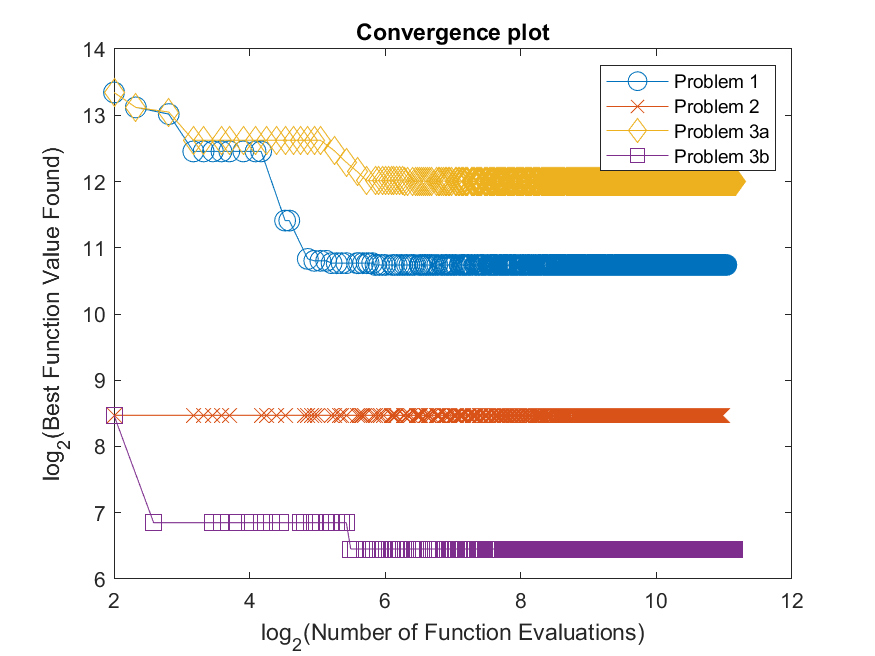
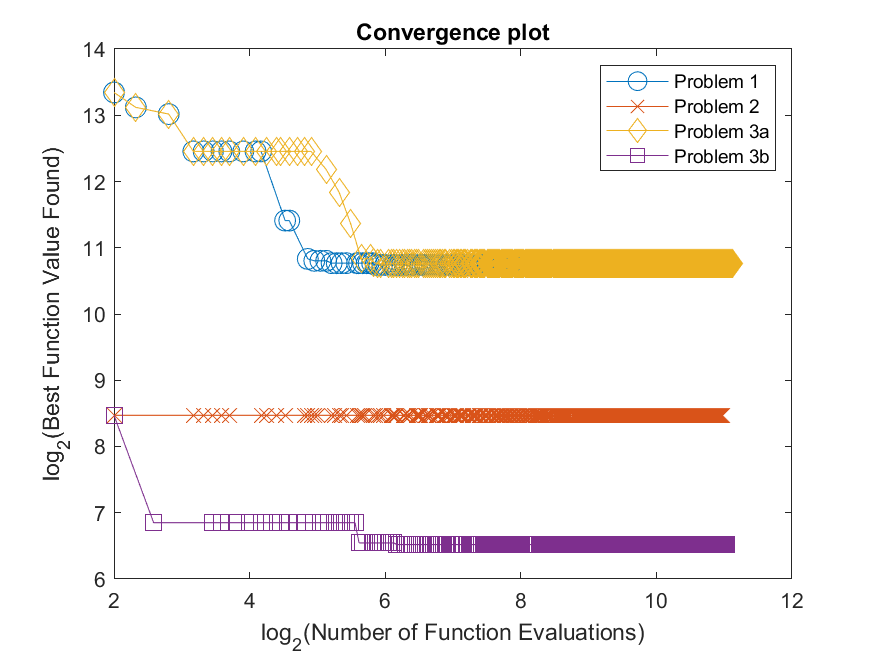
made a latex file for presentation

Changed region(s): [[0.1543, 0.1524, 0.864, 0.4268], [0.3394, 0.7622, 0.864, 0.8537]]

diff --git a/main.m b/main.m
@@ -38,14 +38,19 @@ Y0b = Y0a + (9.5)*ones(3,4);   %translate Y0a by 9.5
 %simplexPlot.plotTotal(Ykb,'C:\Users\User\Desktop\Math462\GroupProject\Cosc419KGroupProject\testSimplexPlotFolder\');
 
 % Question 1c)
-del_e_n = 2000;            %_n stands for new parameters - these are the ones we propose
-del_oc_n = 1/8;
-del_ic_n = -3/4;
-gamma_n = 1/6;
+del_e_na = 3.6;            %_n stands for new parameters - these are the ones we propose
+del_oc_na = 0.05;
+del_ic_na = -3/4;
+gamma_na = 0.95;
+
+del_e_nb = 3.6;            %_n stands for new parameters - these are the ones we propose
+del_oc_nb = 0.05;
+del_ic_nb = -3/4;
+gamma_nb = 0.95;
 
 %a_n is part a w/ new parameters, b_n is part b w/ new parameters
-[Yka_n, fkbesta_n, fevalsa_n] = nelderMead(Y0a, del_e_n, del_oc_n, del_ic_n, gamma_n, f, eps);
-[Ykb_n, fkbestb_n, fevalsb_n] = nelderMead(Y0b, del_e_n, del_oc_n, del_ic_n, gamma_n, f, eps);
+[Yka_n, fkbesta_n, fevalsa_n] = nelderMead(Y0a, del_e_na, del_oc_na, del_ic_na, gamma_na, f, eps);
+[Ykb_n, fkbestb_n, fevalsb_n] = nelderMead(Y0b, del_e_nb, del_oc_nb, del_ic_nb, gamma_nb, f, eps);
 % Question 1d)
 
 %convergence plots go here

diff --git a/Presentation/Math462GroupPresentation.tex b/Presentation/Math462GroupPresentation.tex
@@ -1,0 +1,27 @@
+\documentclass{beamer}
+\usepackage[utf8]{inputenc}
+\usepackage{amssymb}
+\usepackage{xcolor}
+
+\title{Project 5}
+\author[Matthew, Tyler, and Sarah]{Matthew Saurette, Tyler Weames, and Sarah Wyse}
+\institute[Math 462]{Math 462\\ University of British Columbia - Okanagan}
+\date{December 2020}
+\usetheme{Madrid}
+\usecolortheme{seahorse} 
+\useinnertheme{rounded}
+
+\begin{document}
+\maketitle
+
+\begin{frame}{Frame Title}
+    
+\end{frame}
+
+
+
+
+
+
+
+\end{document}
